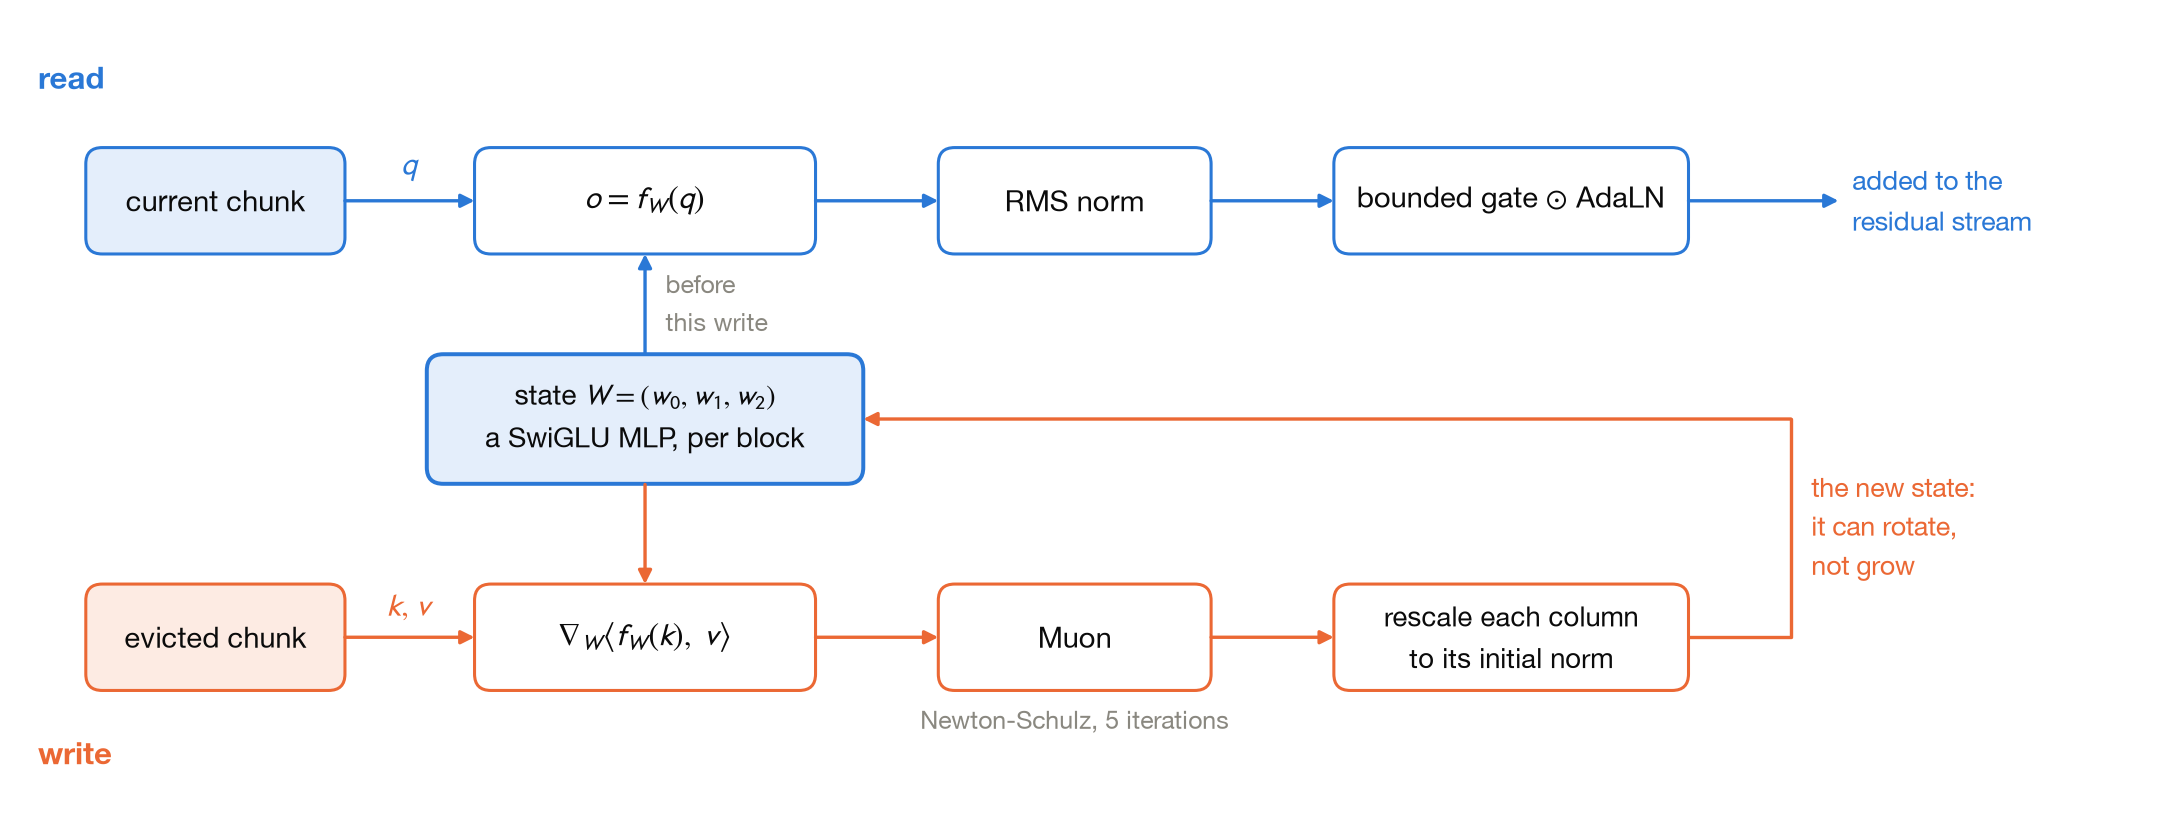
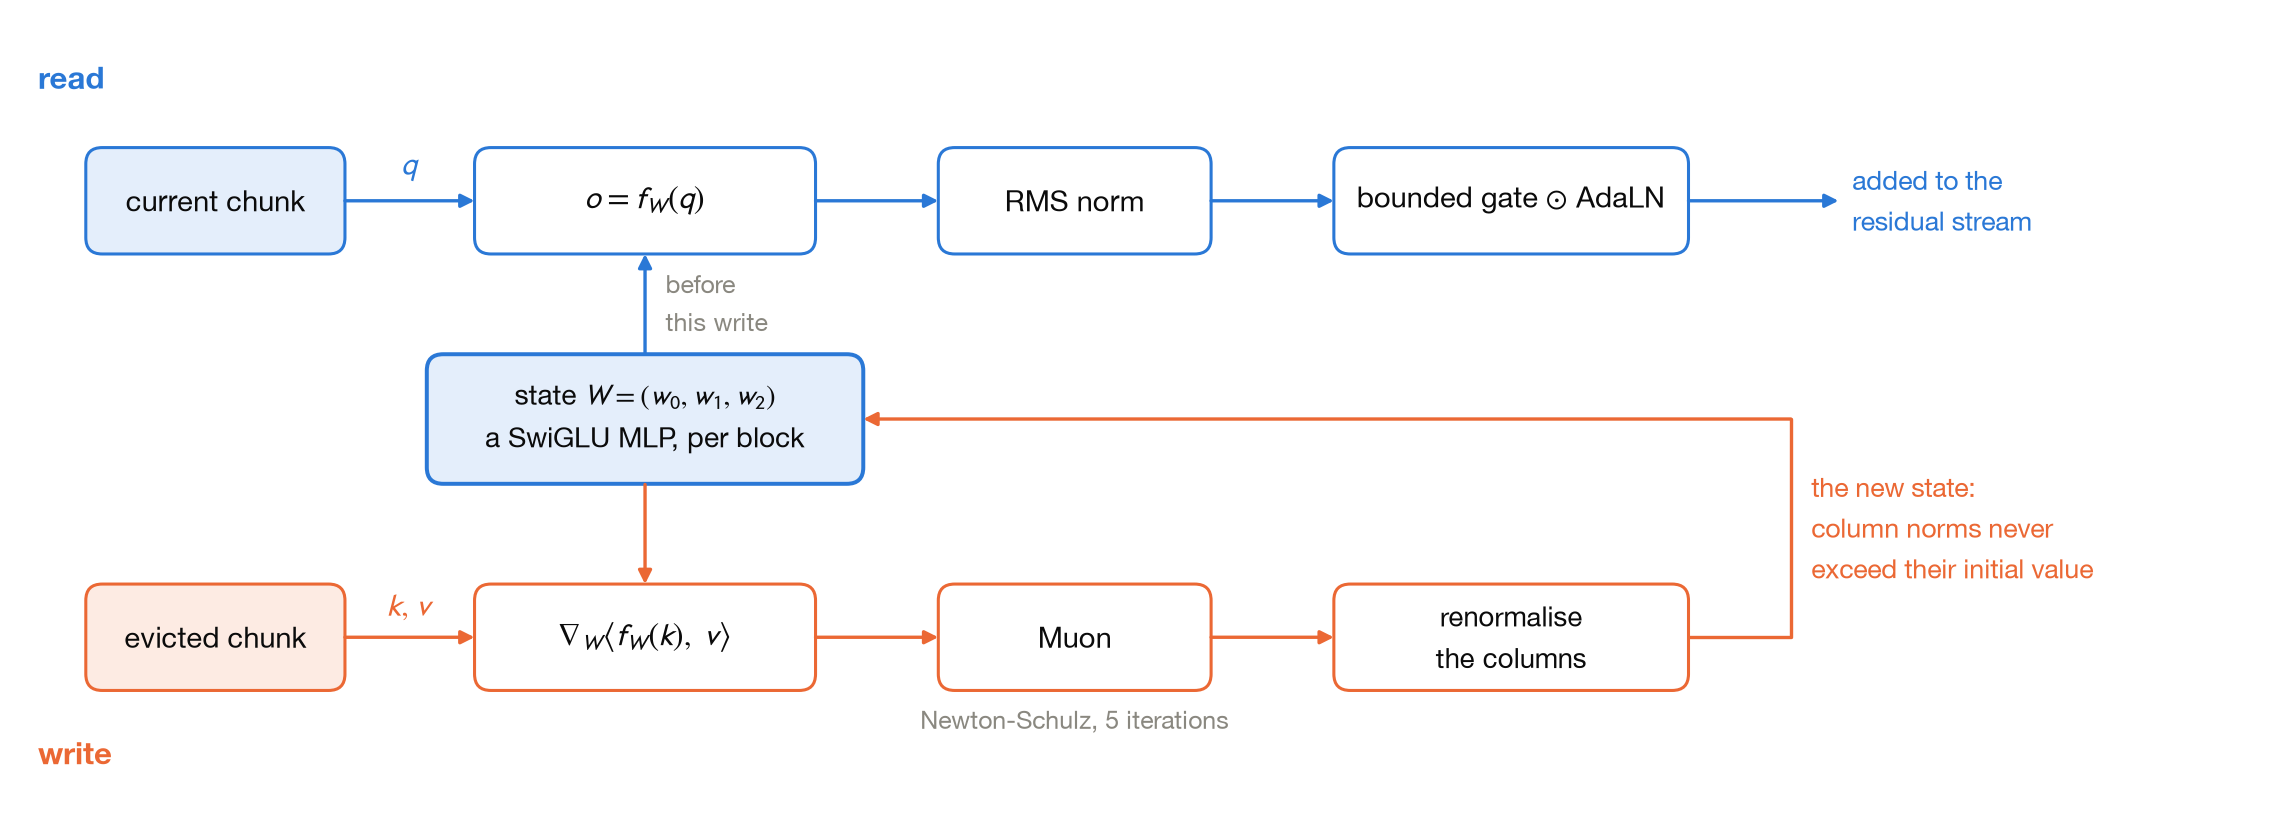
cell figure: say that column norms never exceed their initial value, which holds with and without decay

diff --git a/scripts/make_architecture.py b/scripts/make_architecture.py
@@ -186,9 +186,10 @@ def draw_block():
 def draw_cell():
     """Two lanes around the state W. The read, on the current chunk: queries through the fast
     weights, normalised, gated, injected. The write, on the evicted chunk: one gradient step on an
-    inner score, orthogonalised by Newton-Schulz iterations (Muon), then each column rescaled to
-    its initial norm. The read of a step uses the state from before that step's write."""
-    c = Canvas(15.6, 5.9)
+    inner score, orthogonalised by Newton-Schulz iterations (Muon), then the columns renormalised:
+    back to their initial norm, or capped at it when the state is allowed to forget (use_decay).
+    The read of a step uses the state from before that step's write."""
+    c = Canvas(16.4, 5.9)
     read_y, state_y, write_y = 4.55, 2.95, 1.35
 
     c.text(0.15, read_y + 0.9, "read", size=10, colour=BLUE, weight="bold", ha="left")
@@ -222,11 +223,11 @@ def draw_cell():
     c.module(7.75, write_y, 2.0, 0.78, "Muon", face="#ffffff", edge=ORANGE)
     c.text(7.75, write_y - 0.62, "Newton-Schulz, 5 iterations", size=8.2, colour=MUTED)
     c.arrow((8.75, write_y), (9.65, write_y), colour=ORANGE)
-    c.module(10.95, write_y, 2.6, 0.78, "rescale each column\nto its initial norm", face="#ffffff",
+    c.module(10.95, write_y, 2.6, 0.78, "renormalise\nthe columns", face="#ffffff",
              edge=ORANGE, size=9)
     c.arrow((12.25, write_y), (13.0, write_y), (13.0, state_y), (6.2, state_y), colour=ORANGE)
-    c.text(13.15, (write_y + state_y) / 2, "the new state:\nit can rotate,\nnot grow", size=8.8,
-           colour=ORANGE, ha="left")
+    c.text(13.15, (write_y + state_y) / 2, "the new state:\ncolumn norms never\nexceed their initial value",
+           size=8.8, colour=ORANGE, ha="left")
     c.arrow((4.6, state_y - 0.48), (4.6, write_y + 0.39), colour=ORANGE)
     c.save("arch_cell.png")
 
